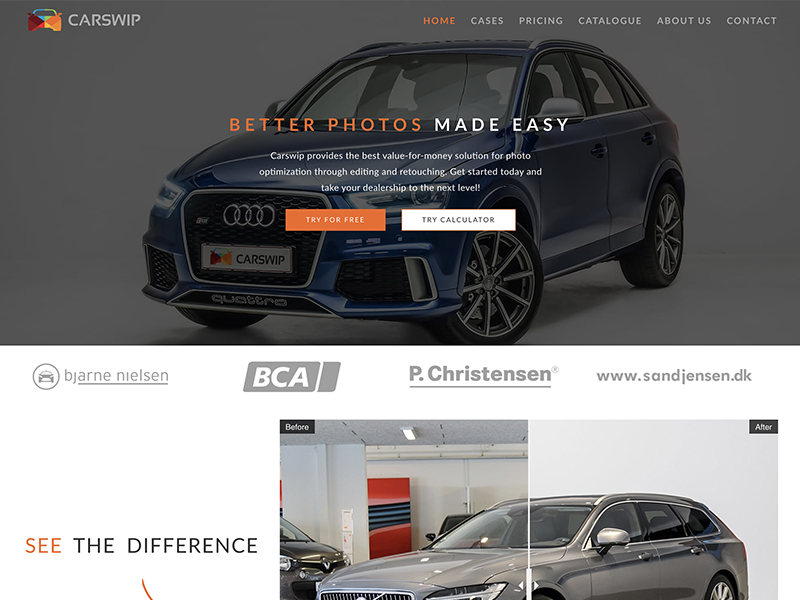
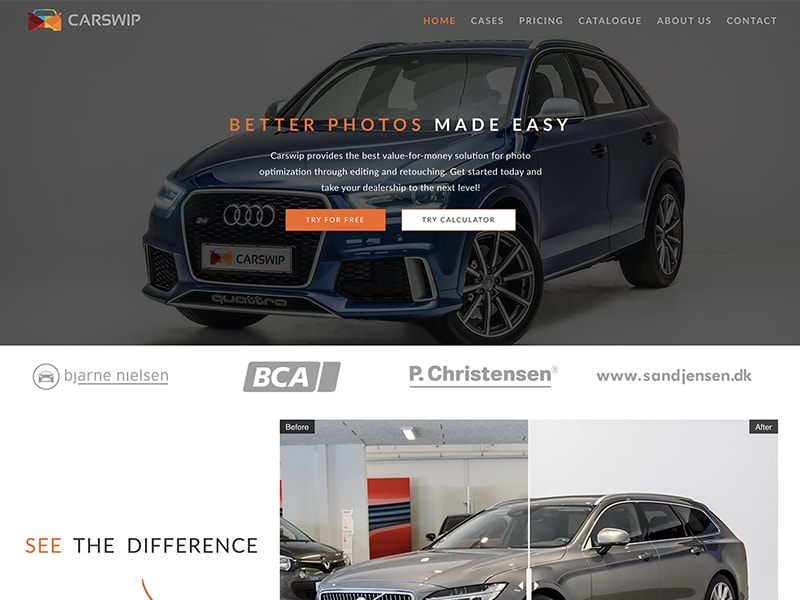
Optimized images for Carswip piece + more
* Optimized the images used for the Carswip portfolio piece

* Minor corrections in the text for the Carswip portfolio piece

* Updated version number in stylesheet link

diff --git a/carswip.php b/carswip.php
@@ -11,7 +11,7 @@
     <main class="animated slideInLeft">
         <section class="portfolioItemIntro" id="carswipIntro">
             <h1 class="itemTitle">Carswip</h1>
-            <h2 class="itemTags">Web Development, Web Content, UI design, UX design</h2>
+            <h2 class="itemTags">Web development, Web content, UI design, UX design</h2>
             <img src="img/portfolio/carswip/carswip-top.jpg" class="itemImage itemImageMargin" alt="Carswip">
         </section>
 
@@ -30,7 +30,7 @@
             <h3 class="itemSection">The Final Website</h3>
             <p class="itemText">The full final website can be seen at <a href="http://www.carswip.com/" class="itemLink">www.carswip.com</a></p>
             
-            <p class="itemText">To give an idea of the level of adjustments/changes that were made to the existing pages between me taking over and the website being launched, a comparison of the Home page can be seen below (click to view full-size)</p>
+            <p class="itemText">To give an idea of the level of adjustments/changes that were made to the existing pages between me taking over and the website being launched, a comparison of the Home page can be seen below (click to view full-size).</p>
             
             <h4 class="itemSubtitle">Home Page - Before (left) and after (right)</h4>
             <a href="img/portfolio/carswip/carswip-home-page-comparison.jpg"><img src="img/portfolio/carswip/carswip-home-page-comparison.jpg" class="itemImage itemImageMargin" alt="Carswip - Home page comparison"></a>

diff --git a/index.php b/index.php
@@ -22,7 +22,7 @@
                     <img src="img/portfolio/carswip/carswip-preview.jpg" class="contentImage" alt="Spot Festival">
                     <div class="contentDetails">
                         <h2>Carswip</h2>
-                        <h3>Web Development, Web Content, UI design, UX design</h3>
+                        <h3>Web development, Web content, UI design, UX design</h3>
                     </div>
                 </a>
             </div>

diff --git a/inc/header.php b/inc/header.php
@@ -3,7 +3,7 @@
 
 <!-- Website styling -->
 <link rel="stylesheet" type="text/css" href="css/reset.css">
-<link rel="stylesheet" type="text/css" href="css/style.css?v=1.1.0">
+<link rel="stylesheet" type="text/css" href="css/style.css?v=1.1.1">
 <link rel="stylesheet" type="text/css" href="css/media-queries.css?v=1.1.0">
 
 <!-- Google Fonts -->
